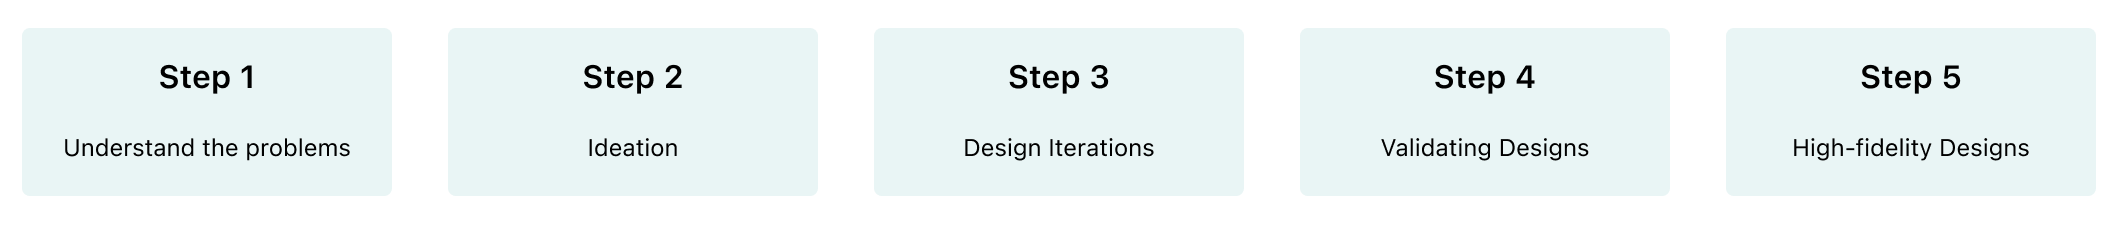
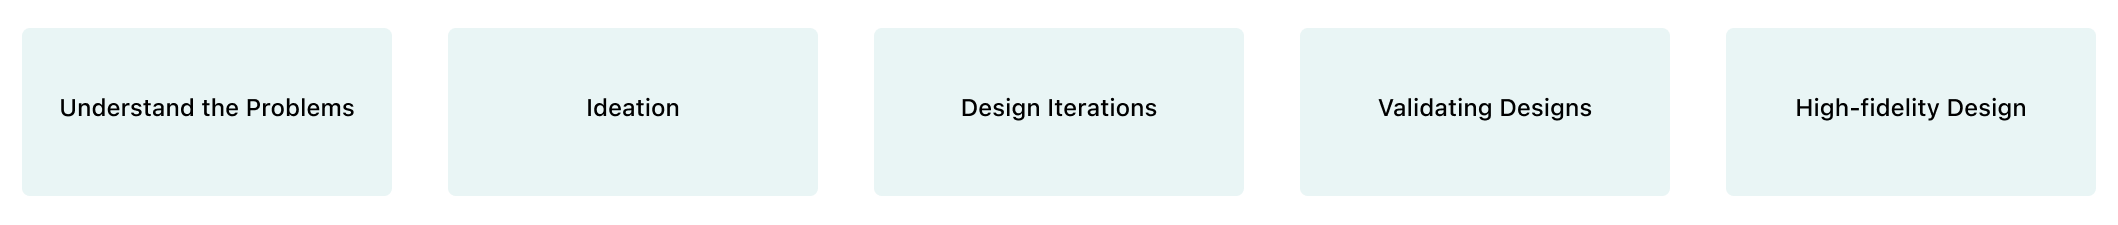
onlineteaching-changetoideation content

diff --git a/onlineteaching.html b/onlineteaching.html
@@ -64,14 +64,16 @@
         </div>
         <div class="content">
             <h4>Broward County Public Schools (BCPS) is the sixth-largest school district in the nation and the second-largest in Florida. Like other K12 schools across the country, they face the challenge of engaging and educating the students online- it's
-                not an easy task, especially with younger kids.<br> <br>I worked with one designer on the project from the ground up based on user research. With virtual classrooms, interactive reactions, call-up student features, the design received
-                more than 80% of interviewers' positive feedback on usability and learnability, and scored 4.6/5 in user satisfaction rate for the experiences.</div>
+                not an easy task, especially with younger kids.<br><br>I worked with one designer on the project from the ground up based on user research. With virtual classrooms, interactive reactions, call-up student features, the design received more
+                than 80% of interviewers' positive feedback on usability and learnability, and scored 4.6/5 in user satisfaction rate for the experiences.</div>
         <div class="Problem">
             <h3>Problem</h3>
         </div>
         <div class="hmw">
             <h4>It's hard for teachers to engage with, get timely feedback, and keep the students focus during online teaching.</h4>
-            <h4>How might we help teachers better engage and interact with kids during online teaching?</h4>
+            <h4>
+                <span class="highlight"><b> How might we help teachers better engage and interact with kids during online teaching?</b></span>
+            </h4>
         </div>
         <div class="Challenge">
             <h3>Our Challenge</h3>
@@ -155,14 +157,14 @@
     </div>
     <div class="mainprocess">
         <div id="understand">
-            <li>Step 1: Understand the problems</li>
+            <li>Understand the Problems</li>
             <h4>As the first step, we conducted research to learn more about remote teaching for kids in the current market. By analyzing the results we collected through research and interviews, we learned that keeping students focused and engaged during
                 online classes was the most common concern from the teachers and parents.
                 <br></h4>
             <li class="subtitle">Competitive study</li>
             <h4>
-                <br> We went through major online-teaching-related platforms and apps and did competitive studies. We realized that although there are many apps for video calls and teaching (among which the most widely used are Teams and Google Classroom),
-                <b>few of them focused on making the teaching experience easy and straightforward for elementary school teachers and students.</b></h4>
+                We went through major online-teaching-related platforms and apps and did competitive studies. We realized that although there are many apps for video calls and teaching (among which the most widely used are Teams and Google Classroom),
+                <span class="highlight"><b>few of them focused on making the teaching experience easy and straightforward for elementary school teachers and students.</b> </span></h4>
             <li class="subtitle">Surveys and interviews:</li>
             <h4>By conducting qualitative research and quantities through surveys and interviews with the teachers, we gained valuable insights regarding their challenges and needs. We also got inspired by how they teach during in-person teaching -we can
                 adopt some of the methods teachers used and help them achieve the same thing by using the teaching app.
@@ -185,9 +187,9 @@
             <h4>With all the data we gathered from 37 respondents and 7 interviewers, the team conducted <a href="onlineteaching/Diagram/0_Brainwriting-Leah.jpg">affinity maps</a>with Miro to help us better organize the information and gain insights. We concluded
                 two main pain points from the teachers:
             </h4><br>
-            <h4>1. It's hard to interact, engage with, and get timely feedback from the kids
+            <h4><span class="highlight"><b> 1. It's hard to interact, engage with, and get timely feedback from the kids</b></span>
             </h4>
-            <h4>2. It's hard to make kids stay focus during the classes</h4>
+            <h4><span class="highlight"><b>2. It's hard to make kids stay focus during the classes</b></span></h4>
             <br>
             <br>
             <h4>Based on the pain points, we defined the following <b>user stories</b> as the most critical ones for our study:</h4>
@@ -203,17 +205,27 @@
         </div>
 
         <div id="Ideation">
-            <li>Step 2: Ideation</li>
+            <li>Ideation</li>
             <h4>The team organized brainstorming sessions to gather some ideas and inspire each other. We sketched out all the possible solutions with multiple interfaces, including the homepage, presentation mode, my classes page, message feature, and grading
                 feature.
-                <br><br> We got a general idea of what we want to build to help achieve the goals by presenting our ideas to each other, and I will be focusing mainly on the design of the homepage, teaching modes, and reaction features for the later tasks.
             </h4>
             <img src="onlineteaching/Diagram/1_Sketches.png" alt="sketches" data-aos="fade-zoom-in" data-aos-duration="800" data-aos-easing="ease-in-back">
             <h5>Some of the inital sketches I did<a href="onlineteaching/Diagram/1_Sketches.png">(click to enlarge)</a></h5>
+            <br><br>
+            <h4>
+                <br><br> <span class="highlight">We got a general idea of what we want to build to help achieve the goals by presenting our ideas to each other and realized there was some critical information we needed to gather from the users before proceeding:</span>
+                <br><br>1) Is it necessary to show all the students' cameras while the teachers presenting the slides?
+                <br> 2) Is the chatting function frequently used during the classes? Do users prefer chatting over showing reactions to interact?
+                <br> 3) What are the most used features for the users during the classes?
+                <br>
+                <br> We provided the questions to the user researchers to conduct another round of interviews. We learned that:<br><br>1)The chatting features are not often used during the classes; <br>2)Teachers do want to see the students while teaching;
+                <br>3)They often use the whiteboard and mute/unmute features during the classes;<br> 4)They wish they could have more ways to organize group discussions such as random call students, breakout rooms, etc. <br><br>Based on the results and
+                our judgments, we decided on the key features to work on. I will be focusing mainly on the design of the homepage, teaching modes, and reaction features for the later tasks.
+            </h4>
         </div>
 
         <div id="Design-Iterations">
-            <li>Step 3: Design Iterations</li>
+            <li>Design Iterations</li>
             <h4>After brainstorming, I continued to sketch out ideas, mainly focused on homepage and presentation layouts, virtual classroom, call-up students, and giving reactions features. I created the most promising ones in digital formats, and went through
                 design reviews and critiques with the team. </h4>
             <li class="subtitle">Homepage: How to start a class quickly?</li>
@@ -231,8 +243,8 @@
             <h4>Another complaint from teachers about online teaching is that some students don't want to show their faces, and the teachers can't get immediate feedback from their gestures and reactions.
                 <br>
                 <br><i style="font-weight:300;">'They joined the meeting, turned off the camera, and leave so they don't participate in the class.'</i> <br><br> We need to find a way to encourage the students to turn on their cameras and better engage
-                with the classes. With the help of up-front secondary research we conducted, the team decided to create a virtual classroom feature for the app. The idea is to simulate the real scenario of students in the classroom by having everyone
-                'sit' on the desk and have their faces showing up on a cartoon body. The student who doesn't have their camera on will have a blank camera view. It aims to 'gamify' online class taking and encourage the kids to turn on their cameras.
+                with the classes. With the help of up-front secondary research we conducted, the team decided to create a virtual classroom feature for the app. <span class="highlight">The idea is to simulate the real scenario of students in the classroom by having everyone
+                'sit' on the desk and have their faces showing up on a cartoon body.</span> The student who doesn't have their camera on will have a blank camera view. It aims to 'gamify' online class taking and encourage the kids to turn on their cameras.
             </h4>
             <br>
             <h4>I experimented with a few options including: </h4>
@@ -249,7 +261,7 @@
                 they are delivering. <br><br>How do we show the presentation and students' videos at the same time? Considering the compatibility with Google slides, we use 4:3 and 16:9 as width to height ratios for the presentation area to try out different
                 layout options.</h4>
             <img src="onlineteaching/mockup-designoptions/4_Presenationmode.gif" alt="Wireframesforpresentation" data-aos="fade-zoom-in" data-aos-duration="800" data-aos-easing="ease-in-back">
-            <h5>Low-fidelity wireframes for the presentation page</h5>
+            <h5>Testing different layout options for the presentation page</h5>
             <br>
             <br>
             <h4>After experimenting with different layout options, I picked the ones below to provide to the users. The layouts are simple and neat - they allow teachers to use the toolbar and see the students' faces when they present, while the slideshow
@@ -307,24 +319,25 @@
 
             <br>
             <img id="whiteimg" src="onlineteaching/mockup-designoptions/callstudents.gif" alt="wireframemapv2" data-aos="fade-in" data-aos-duration="800" data-aos-easing="ease-in-back">
+            <h5>Users can give reactions to the pinned student</h5>
         </div>
 
         <div id="Design-Validation">
-            <li>Step 4: Design Validation</li>
+            <li>Design Validation</li>
             <h4>Before we moved onto the high-fidelity design, we made a prototype with different solutions we had in wireframe by using Figma. And we designed and conducted unmoderated user testing through Maze. From the seven responses we gathered, we were
                 able to get some valuable feedback and insights: </h4>
             <br>
             <br>
             <img id="fullimg" src="onlineteaching/Diagram/07_DesignValidation.png" alt="high-fidelity">
 
-            <h4><b>After the user testing, we identified the following designs to be reconsidered:</b><br><br>1) The current reaction users can be interpreted as given to the pinned speaker. The reaction feature in the classroom mode needs to be more precise
+            <h4><b>After the user testing, we identified the following designs to be modified:</b><br><br>1) The current reaction users can be interpreted as given to the pinned speaker. The reaction feature in the classroom mode needs to be more precise
                 about whom the reactions the users are giving to.<br><br>2) We can try to have the slideshow show in a small screen while having the students pinned at the center of the screen. It provides an even easier alternative to go back to the
                 slideshow mode.
             </h4>
         </div>
 
         <div id="High-fidelity">
-            <li>Step 5: High-fidelity</li>
+            <li>High-fidelity Design</li>
             <h4>The overall user flow stays similar to the wireframes. I modified the design based on the feedbacks and created high-fidelity interfaces. I chose a complementary color combination - ‘green’ and ‘red’ to be the app’s primary color. Red is energizing
                 and associated with strength and friendliness, while green is calming, soothing, and can bring down the excitement to an ideal level. </h4>
             <img id="fullimg" src="onlineteaching/Diagram/06_High-fidelity.png" alt="high-fidelity">

diff --git a/onlineteaching.css b/onlineteaching.css
@@ -323,6 +323,11 @@ li {
     }
 }
 
+.highlight {
+    background: linear-gradient(180deg, rgba(255, 255, 255, 0) 65%, #FFF4D8 65%);
+    display: inline;
+}
+
 .animation h1 {
     color: white;
     font-family: 'SF Pro', sans-serif;
